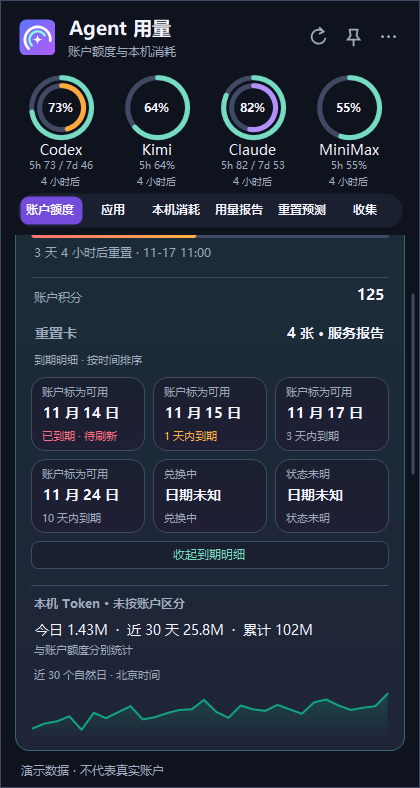
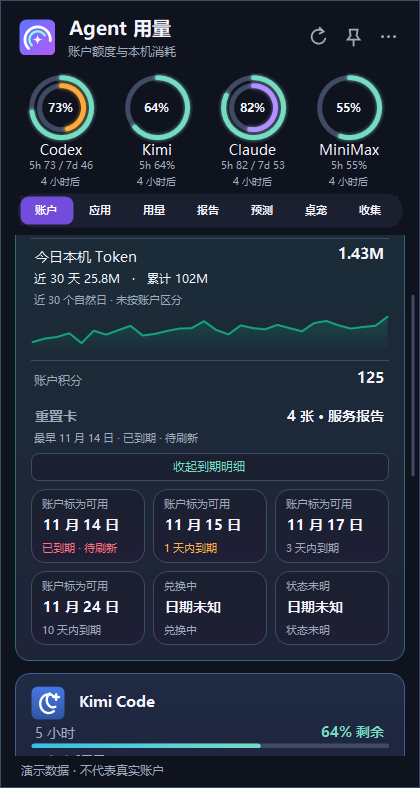
按原版 420 宽度对照账户首屏，并补齐预览账本归属

diff --git a/windows/qa/mac_account_preview.py b/windows/qa/mac_account_preview.py
@@ -13,7 +13,7 @@ def reference(frame, now):
     rows = []
     for provider in ("codex", "kimi", "claude", "minimax"):
         sample = frame[provider]
-        row = source(provider, "account", now)
+        row = source("minimax_code" if provider == "minimax" else provider, "account", now)
         rows.append(row)
         if sample["plan"]:
             row["subscription"] = {"plan": sample["plan"]}
@@ -34,7 +34,10 @@ def reference(frame, now):
                 for card in cards["cards"]]))
         if sample["history"]:
             history = sample["history"]
-            metrics["tokens"] = metric({"periods": history["periods"],
+            # 原版账户页按模型组上的 app 归集；Windows 投影已经按来源分桶。
+            periods = {key: dict(bucket, groups=[dict(group, app=provider) for group in bucket.get("groups", [])])
+                       for key, bucket in history["periods"].items()}
+            metrics["tokens"] = metric({"periods": periods,
                                         "daily_buckets": (history.get("daily_trend") or {}).get("days", [])})
     return {"schema_version": SCHEMA_VERSION, "collected_at": timestamp(now), "sources": rows}
 

diff --git a/windows/AgentMeter.Windows/NavigationPaintSmoke.cs b/windows/AgentMeter.Windows/NavigationPaintSmoke.cs
@@ -250,7 +250,7 @@ internal sealed partial class MeterWindow
                 ["history"] = demoFrame["history"]?[name]?["value"]?.DeepClone() };
         }
         File.WriteAllText(Path.Combine(output, "account-demo.json"), comparison.ToJsonString());
-        foreach (var (style, width) in new[] { ("aurora", 440), ("porcelain", 380) })
+        foreach (var (style, width) in new[] { ("aurora", 440), ("aurora", 420), ("porcelain", 380) })
         {
             SetTheme(VisualThemes.Find(style)); Size = new Size(width, 680);
             content.AutoScrollPosition = Point.Empty;
